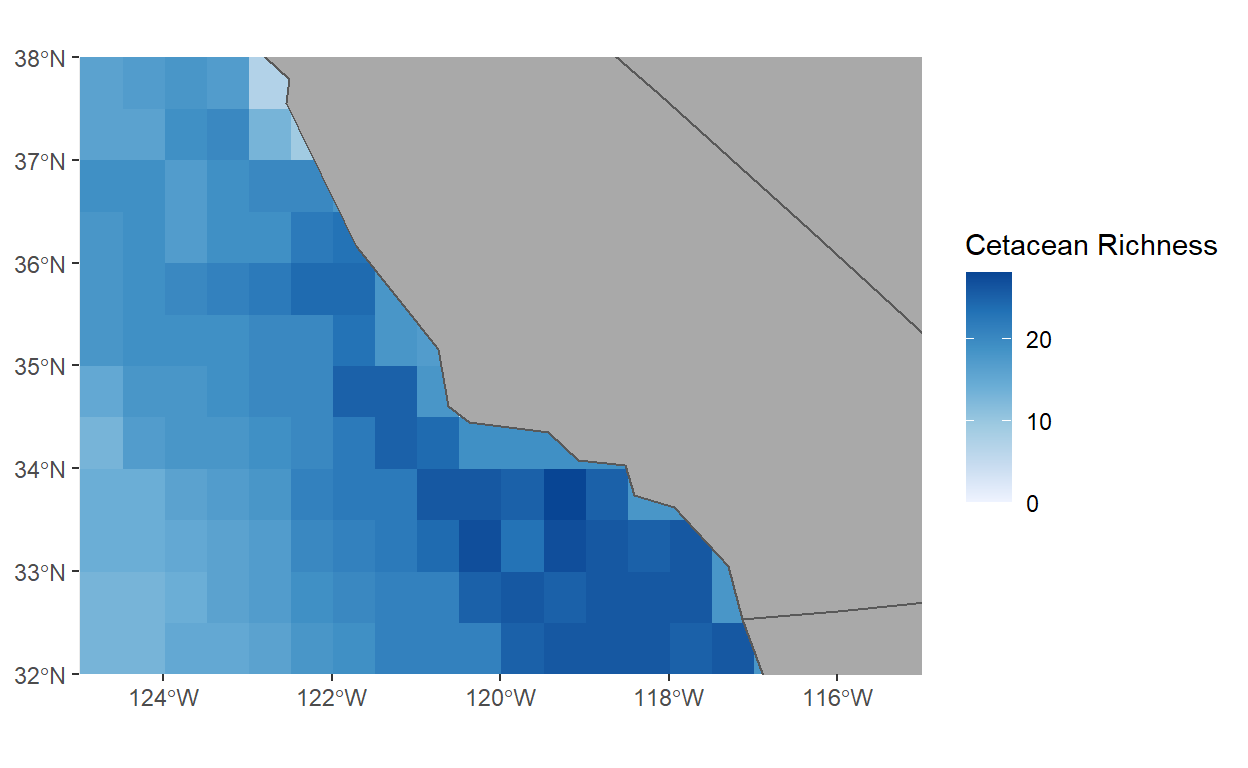
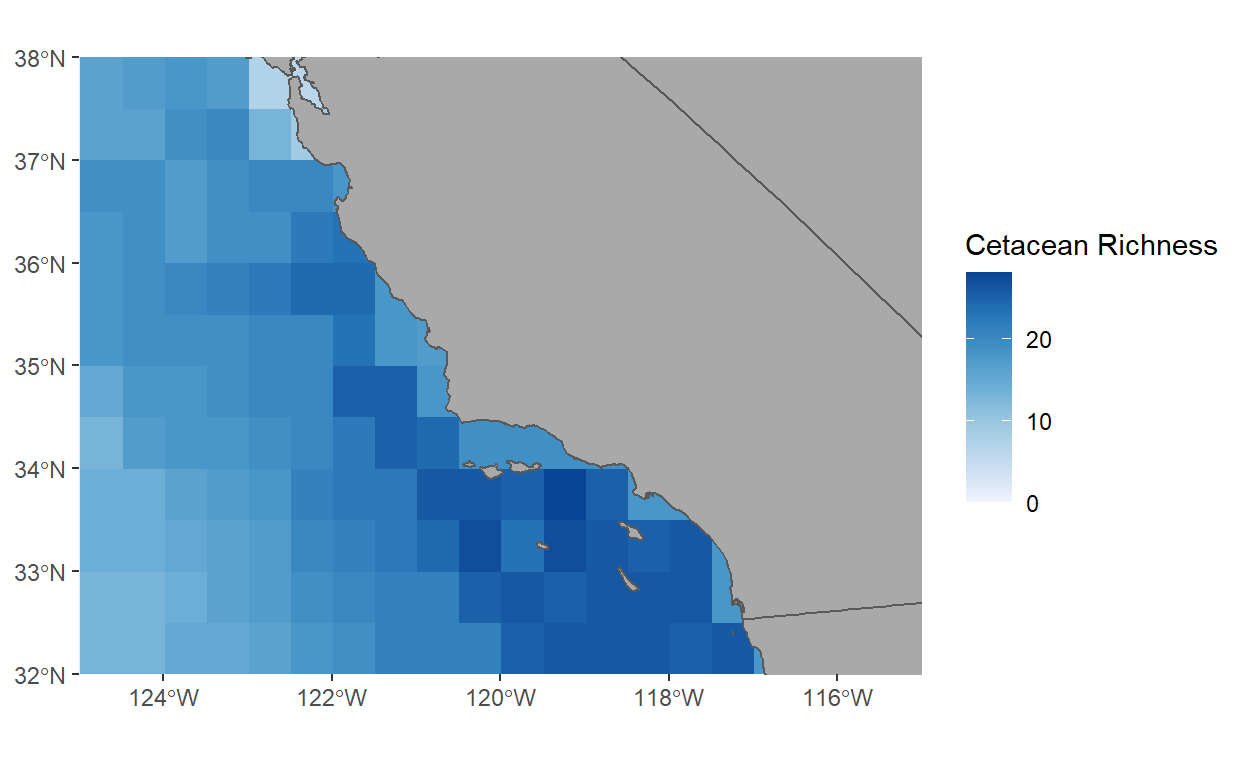
changed map

diff --git a/_posts/2021-03-14-cetacean/cetacean.html b/_posts/2021-03-14-cetacean/cetacean.html
@@ -116,7 +116,7 @@ code span.wa { color: #5e5e5e; font-style: italic; } /* Warning */
   <!--/radix_placeholder_rmarkdown_metadata-->
   
   <script type="text/json" id="radix-resource-manifest">
-  {"type":"character","attributes":{},"value":["cetacean_files/anchor-4.2.2/anchor.min.js","cetacean_files/bowser-1.9.3/bowser.min.js","cetacean_files/distill-2.2.21/template.v2.js","cetacean_files/figure-html5/unnamed-chunk-3-1.png","cetacean_files/figure-html5/unnamed-chunk-5-1.png","cetacean_files/header-attrs-2.6.6/header-attrs.js","cetacean_files/jquery-1.11.3/jquery.min.js","cetacean_files/popper-2.6.0/popper.min.js","cetacean_files/tippy-6.2.7/tippy-bundle.umd.min.js","cetacean_files/tippy-6.2.7/tippy-light-border.css","cetacean_files/tippy-6.2.7/tippy.css","cetacean_files/tippy-6.2.7/tippy.umd.min.js","cetacean_files/webcomponents-2.0.0/webcomponents.js","data/ca_cetaceans/Balaenoptera_acutorostrata.tif","data/ca_cetaceans/Balaenoptera_borealis.tif","data/ca_cetaceans/Balaenoptera_brydei.tif","data/ca_cetaceans/Balaenoptera_edeni.tif","data/ca_cetaceans/Balaenoptera_musculus.tif","data/ca_cetaceans/Balaenoptera_physalus.tif","data/ca_cetaceans/Berardius_bairdii.tif","data/ca_cetaceans/Delphinus_capensis.tif","data/ca_cetaceans/Delphinus_delphis.tif","data/ca_cetaceans/Eschrichtius_robustus.tif","data/ca_cetaceans/Eubalaena_japonica.tif","data/ca_cetaceans/Globicephala_macrorhynchus.tif","data/ca_cetaceans/Grampus_griseus.tif","data/ca_cetaceans/Indopacetus_pacificus.tif","data/ca_cetaceans/Kogia_breviceps.tif","data/ca_cetaceans/Kogia_sima.tif","data/ca_cetaceans/Lagenodelphis_hosei.tif","data/ca_cetaceans/Lagenorhynchus_obliquidens.tif","data/ca_cetaceans/Lissodelphis_borealis.tif","data/ca_cetaceans/Megaptera_novaeangliae.tif","data/ca_cetaceans/Mesoplodon_carlhubbsi.tif","data/ca_cetaceans/Mesoplodon_densirostris.tif","data/ca_cetaceans/Mesoplodon_ginkgodens.tif","data/ca_cetaceans/Mesoplodon_perrini.tif","data/ca_cetaceans/Mesoplodon_stejnegeri.tif","data/ca_cetaceans/Orcinus_orca.tif","data/ca_cetaceans/Phocoena_phocoena.tif","data/ca_cetaceans/Phocoenoides_dalli.tif","data/ca_cetaceans/Physeter_macrocephalus.tif","data/ca_cetaceans/Pseudorca_crassidens.tif","data/ca_cetaceans/Stenella_attenuata.tif","data/ca_cetaceans/Stenella_coeruleoalba.tif","data/ca_cetaceans/Steno_bredanensis.tif","data/ca_cetaceans/Tursiops_truncatus.tif","data/ca_cetaceans/Ziphius_cavirostris.tif","data/ca_counties/CA_Counties_TIGER2016.cpg","data/ca_counties/CA_Counties_TIGER2016.dbf","data/ca_counties/CA_Counties_TIGER2016.prj","data/ca_counties/CA_Counties_TIGER2016.sbn","data/ca_counties/CA_Counties_TIGER2016.sbx","data/ca_counties/CA_Counties_TIGER2016.shp","data/ca_counties/CA_Counties_TIGER2016.shp.xml","data/ca_counties/CA_Counties_TIGER2016.shx","data/oil_spill/Oil_Spill_Incident_Tracking_%5Bds394%5D.cpg","data/oil_spill/Oil_Spill_Incident_Tracking_%5Bds394%5D.dbf","data/oil_spill/Oil_Spill_Incident_Tracking_%5Bds394%5D.prj","data/oil_spill/Oil_Spill_Incident_Tracking_%5Bds394%5D.shp","data/oil_spill/Oil_Spill_Incident_Tracking_%5Bds394%5D.shx","data/oil_spill/Oil_Spill_Incident_Tracking_%5Bds394%5D.xml","data/The Project Gutenberg EBook of Treasure Island.pdf","src/a3_task1_smith_quin.html","src/a3_task1_smith_quin.Rmd","src/a3_task2_smith_quin.html","src/a3_task2_smith_quin.Rmd","src/a3_task3_smith_quin.html","src/a3_task3_smith_quin.Rmd"]}
+  {"type":"character","attributes":{},"value":["cetacean_files/anchor-4.2.2/anchor.min.js","cetacean_files/bowser-1.9.3/bowser.min.js","cetacean_files/distill-2.2.21/template.v2.js","cetacean_files/figure-html5/unnamed-chunk-3-1.png","cetacean_files/figure-html5/unnamed-chunk-5-1.png","cetacean_files/header-attrs-2.6.6/header-attrs.js","cetacean_files/jquery-1.11.3/jquery.min.js","cetacean_files/popper-2.6.0/popper.min.js","cetacean_files/tippy-6.2.7/tippy-bundle.umd.min.js","cetacean_files/tippy-6.2.7/tippy-light-border.css","cetacean_files/tippy-6.2.7/tippy.css","cetacean_files/tippy-6.2.7/tippy.umd.min.js","cetacean_files/webcomponents-2.0.0/webcomponents.js","data/ca_cetaceans/Balaenoptera_acutorostrata.tif","data/ca_cetaceans/Balaenoptera_borealis.tif","data/ca_cetaceans/Balaenoptera_brydei.tif","data/ca_cetaceans/Balaenoptera_edeni.tif","data/ca_cetaceans/Balaenoptera_musculus.tif","data/ca_cetaceans/Balaenoptera_physalus.tif","data/ca_cetaceans/Berardius_bairdii.tif","data/ca_cetaceans/Delphinus_capensis.tif","data/ca_cetaceans/Delphinus_delphis.tif","data/ca_cetaceans/Eschrichtius_robustus.tif","data/ca_cetaceans/Eubalaena_japonica.tif","data/ca_cetaceans/Globicephala_macrorhynchus.tif","data/ca_cetaceans/Grampus_griseus.tif","data/ca_cetaceans/Indopacetus_pacificus.tif","data/ca_cetaceans/Kogia_breviceps.tif","data/ca_cetaceans/Kogia_sima.tif","data/ca_cetaceans/Lagenodelphis_hosei.tif","data/ca_cetaceans/Lagenorhynchus_obliquidens.tif","data/ca_cetaceans/Lissodelphis_borealis.tif","data/ca_cetaceans/Megaptera_novaeangliae.tif","data/ca_cetaceans/Mesoplodon_carlhubbsi.tif","data/ca_cetaceans/Mesoplodon_densirostris.tif","data/ca_cetaceans/Mesoplodon_ginkgodens.tif","data/ca_cetaceans/Mesoplodon_perrini.tif","data/ca_cetaceans/Mesoplodon_stejnegeri.tif","data/ca_cetaceans/Orcinus_orca.tif","data/ca_cetaceans/Phocoena_phocoena.tif","data/ca_cetaceans/Phocoenoides_dalli.tif","data/ca_cetaceans/Physeter_macrocephalus.tif","data/ca_cetaceans/Pseudorca_crassidens.tif","data/ca_cetaceans/Stenella_attenuata.tif","data/ca_cetaceans/Stenella_coeruleoalba.tif","data/ca_cetaceans/Steno_bredanensis.tif","data/ca_cetaceans/Tursiops_truncatus.tif","data/ca_cetaceans/Ziphius_cavirostris.tif","data/ca_counties/CA_Counties_TIGER2016.cpg","data/ca_counties/CA_Counties_TIGER2016.dbf","data/ca_counties/CA_Counties_TIGER2016.prj","data/ca_counties/CA_Counties_TIGER2016.sbn","data/ca_counties/CA_Counties_TIGER2016.sbx","data/ca_counties/CA_Counties_TIGER2016.shp","data/ca_counties/CA_Counties_TIGER2016.shp.xml","data/ca_counties/CA_Counties_TIGER2016.shx","data/oil_spill/Oil_Spill_Incident_Tracking_%5Bds394%5D.cpg","data/oil_spill/Oil_Spill_Incident_Tracking_%5Bds394%5D.dbf","data/oil_spill/Oil_Spill_Incident_Tracking_%5Bds394%5D.prj","data/oil_spill/Oil_Spill_Incident_Tracking_%5Bds394%5D.shp","data/oil_spill/Oil_Spill_Incident_Tracking_%5Bds394%5D.shx","data/oil_spill/Oil_Spill_Incident_Tracking_%5Bds394%5D.xml","data/The Project Gutenberg EBook of Treasure Island.pdf"]}
   </script>
   <!--radix_placeholder_navigation_in_header-->
   <!--/radix_placeholder_navigation_in_header-->
@@ -1547,8 +1547,8 @@ hide
 </summary>
 <div class="sourceCode">
 <pre class="sourceCode r"><code class="sourceCode r"><span class='co'>#download shapefiles</span>
-<span class='va'>coast</span> <span class='op'>&lt;-</span> <span class='fu'><a href='https://rdrr.io/pkg/rnaturalearth/man/ne_download.html'>ne_download</a></span><span class='op'>(</span>scale <span class='op'>=</span> <span class='fl'>110</span>, type <span class='op'>=</span> <span class='st'>'land'</span>, category <span class='op'>=</span> <span class='st'>'physical'</span>, returnclass <span class='op'>=</span> <span class='st'>"sf"</span><span class='op'>)</span>
-<span class='va'>states</span> <span class='op'>&lt;-</span> <span class='fu'><a href='https://rdrr.io/pkg/rnaturalearth/man/ne_download.html'>ne_download</a></span><span class='op'>(</span>scale <span class='op'>=</span> <span class='fl'>110</span>, type <span class='op'>=</span> <span class='st'>'states'</span>, category <span class='op'>=</span> <span class='st'>'cultural'</span>, returnclass <span class='op'>=</span> <span class='st'>"sf"</span><span class='op'>)</span>
+<span class='va'>coast</span> <span class='op'>&lt;-</span> <span class='fu'><a href='https://rdrr.io/pkg/rnaturalearth/man/ne_download.html'>ne_download</a></span><span class='op'>(</span>scale <span class='op'>=</span> <span class='st'>"large"</span>, type <span class='op'>=</span> <span class='st'>'land'</span>, category <span class='op'>=</span> <span class='st'>'physical'</span>, returnclass <span class='op'>=</span> <span class='st'>"sf"</span><span class='op'>)</span>
+<span class='va'>states</span> <span class='op'>&lt;-</span> <span class='fu'><a href='https://rdrr.io/pkg/rnaturalearth/man/ne_download.html'>ne_download</a></span><span class='op'>(</span>scale <span class='op'>=</span> <span class='st'>"large"</span>, type <span class='op'>=</span> <span class='st'>'states'</span>, category <span class='op'>=</span> <span class='st'>'cultural'</span>, returnclass <span class='op'>=</span> <span class='st'>"sf"</span><span class='op'>)</span>
 </code></pre>
 </div>
 </details>

diff --git a/docs/posts/2021-03-14-cetacean/index.html b/docs/posts/2021-03-14-cetacean/index.html
@@ -117,7 +117,7 @@ code span.wa { color: #5e5e5e; font-style: italic; } /* Warning */
 <!--/radix_placeholder_rmarkdown_metadata-->
   
   <script type="text/json" id="radix-resource-manifest">
-  {"type":"character","attributes":{},"value":["cetacean_files/anchor-4.2.2/anchor.min.js","cetacean_files/bowser-1.9.3/bowser.min.js","cetacean_files/distill-2.2.21/template.v2.js","cetacean_files/figure-html5/unnamed-chunk-3-1.png","cetacean_files/figure-html5/unnamed-chunk-5-1.png","cetacean_files/header-attrs-2.6.6/header-attrs.js","cetacean_files/jquery-1.11.3/jquery.min.js","cetacean_files/popper-2.6.0/popper.min.js","cetacean_files/tippy-6.2.7/tippy-bundle.umd.min.js","cetacean_files/tippy-6.2.7/tippy-light-border.css","cetacean_files/tippy-6.2.7/tippy.css","cetacean_files/tippy-6.2.7/tippy.umd.min.js","cetacean_files/webcomponents-2.0.0/webcomponents.js","data/ca_cetaceans/Balaenoptera_acutorostrata.tif","data/ca_cetaceans/Balaenoptera_borealis.tif","data/ca_cetaceans/Balaenoptera_brydei.tif","data/ca_cetaceans/Balaenoptera_edeni.tif","data/ca_cetaceans/Balaenoptera_musculus.tif","data/ca_cetaceans/Balaenoptera_physalus.tif","data/ca_cetaceans/Berardius_bairdii.tif","data/ca_cetaceans/Delphinus_capensis.tif","data/ca_cetaceans/Delphinus_delphis.tif","data/ca_cetaceans/Eschrichtius_robustus.tif","data/ca_cetaceans/Eubalaena_japonica.tif","data/ca_cetaceans/Globicephala_macrorhynchus.tif","data/ca_cetaceans/Grampus_griseus.tif","data/ca_cetaceans/Indopacetus_pacificus.tif","data/ca_cetaceans/Kogia_breviceps.tif","data/ca_cetaceans/Kogia_sima.tif","data/ca_cetaceans/Lagenodelphis_hosei.tif","data/ca_cetaceans/Lagenorhynchus_obliquidens.tif","data/ca_cetaceans/Lissodelphis_borealis.tif","data/ca_cetaceans/Megaptera_novaeangliae.tif","data/ca_cetaceans/Mesoplodon_carlhubbsi.tif","data/ca_cetaceans/Mesoplodon_densirostris.tif","data/ca_cetaceans/Mesoplodon_ginkgodens.tif","data/ca_cetaceans/Mesoplodon_perrini.tif","data/ca_cetaceans/Mesoplodon_stejnegeri.tif","data/ca_cetaceans/Orcinus_orca.tif","data/ca_cetaceans/Phocoena_phocoena.tif","data/ca_cetaceans/Phocoenoides_dalli.tif","data/ca_cetaceans/Physeter_macrocephalus.tif","data/ca_cetaceans/Pseudorca_crassidens.tif","data/ca_cetaceans/Stenella_attenuata.tif","data/ca_cetaceans/Stenella_coeruleoalba.tif","data/ca_cetaceans/Steno_bredanensis.tif","data/ca_cetaceans/Tursiops_truncatus.tif","data/ca_cetaceans/Ziphius_cavirostris.tif","data/ca_counties/CA_Counties_TIGER2016.cpg","data/ca_counties/CA_Counties_TIGER2016.dbf","data/ca_counties/CA_Counties_TIGER2016.prj","data/ca_counties/CA_Counties_TIGER2016.sbn","data/ca_counties/CA_Counties_TIGER2016.sbx","data/ca_counties/CA_Counties_TIGER2016.shp","data/ca_counties/CA_Counties_TIGER2016.shp.xml","data/ca_counties/CA_Counties_TIGER2016.shx","data/oil_spill/Oil_Spill_Incident_Tracking_%5Bds394%5D.cpg","data/oil_spill/Oil_Spill_Incident_Tracking_%5Bds394%5D.dbf","data/oil_spill/Oil_Spill_Incident_Tracking_%5Bds394%5D.prj","data/oil_spill/Oil_Spill_Incident_Tracking_%5Bds394%5D.shp","data/oil_spill/Oil_Spill_Incident_Tracking_%5Bds394%5D.shx","data/oil_spill/Oil_Spill_Incident_Tracking_%5Bds394%5D.xml","data/The Project Gutenberg EBook of Treasure Island.pdf","src/a3_task1_smith_quin.html","src/a3_task1_smith_quin.Rmd","src/a3_task2_smith_quin.html","src/a3_task2_smith_quin.Rmd","src/a3_task3_smith_quin.html","src/a3_task3_smith_quin.Rmd"]}
+  {"type":"character","attributes":{},"value":["cetacean_files/anchor-4.2.2/anchor.min.js","cetacean_files/bowser-1.9.3/bowser.min.js","cetacean_files/distill-2.2.21/template.v2.js","cetacean_files/figure-html5/unnamed-chunk-3-1.png","cetacean_files/figure-html5/unnamed-chunk-5-1.png","cetacean_files/header-attrs-2.6.6/header-attrs.js","cetacean_files/jquery-1.11.3/jquery.min.js","cetacean_files/popper-2.6.0/popper.min.js","cetacean_files/tippy-6.2.7/tippy-bundle.umd.min.js","cetacean_files/tippy-6.2.7/tippy-light-border.css","cetacean_files/tippy-6.2.7/tippy.css","cetacean_files/tippy-6.2.7/tippy.umd.min.js","cetacean_files/webcomponents-2.0.0/webcomponents.js","data/ca_cetaceans/Balaenoptera_acutorostrata.tif","data/ca_cetaceans/Balaenoptera_borealis.tif","data/ca_cetaceans/Balaenoptera_brydei.tif","data/ca_cetaceans/Balaenoptera_edeni.tif","data/ca_cetaceans/Balaenoptera_musculus.tif","data/ca_cetaceans/Balaenoptera_physalus.tif","data/ca_cetaceans/Berardius_bairdii.tif","data/ca_cetaceans/Delphinus_capensis.tif","data/ca_cetaceans/Delphinus_delphis.tif","data/ca_cetaceans/Eschrichtius_robustus.tif","data/ca_cetaceans/Eubalaena_japonica.tif","data/ca_cetaceans/Globicephala_macrorhynchus.tif","data/ca_cetaceans/Grampus_griseus.tif","data/ca_cetaceans/Indopacetus_pacificus.tif","data/ca_cetaceans/Kogia_breviceps.tif","data/ca_cetaceans/Kogia_sima.tif","data/ca_cetaceans/Lagenodelphis_hosei.tif","data/ca_cetaceans/Lagenorhynchus_obliquidens.tif","data/ca_cetaceans/Lissodelphis_borealis.tif","data/ca_cetaceans/Megaptera_novaeangliae.tif","data/ca_cetaceans/Mesoplodon_carlhubbsi.tif","data/ca_cetaceans/Mesoplodon_densirostris.tif","data/ca_cetaceans/Mesoplodon_ginkgodens.tif","data/ca_cetaceans/Mesoplodon_perrini.tif","data/ca_cetaceans/Mesoplodon_stejnegeri.tif","data/ca_cetaceans/Orcinus_orca.tif","data/ca_cetaceans/Phocoena_phocoena.tif","data/ca_cetaceans/Phocoenoides_dalli.tif","data/ca_cetaceans/Physeter_macrocephalus.tif","data/ca_cetaceans/Pseudorca_crassidens.tif","data/ca_cetaceans/Stenella_attenuata.tif","data/ca_cetaceans/Stenella_coeruleoalba.tif","data/ca_cetaceans/Steno_bredanensis.tif","data/ca_cetaceans/Tursiops_truncatus.tif","data/ca_cetaceans/Ziphius_cavirostris.tif","data/ca_counties/CA_Counties_TIGER2016.cpg","data/ca_counties/CA_Counties_TIGER2016.dbf","data/ca_counties/CA_Counties_TIGER2016.prj","data/ca_counties/CA_Counties_TIGER2016.sbn","data/ca_counties/CA_Counties_TIGER2016.sbx","data/ca_counties/CA_Counties_TIGER2016.shp","data/ca_counties/CA_Counties_TIGER2016.shp.xml","data/ca_counties/CA_Counties_TIGER2016.shx","data/oil_spill/Oil_Spill_Incident_Tracking_%5Bds394%5D.cpg","data/oil_spill/Oil_Spill_Incident_Tracking_%5Bds394%5D.dbf","data/oil_spill/Oil_Spill_Incident_Tracking_%5Bds394%5D.prj","data/oil_spill/Oil_Spill_Incident_Tracking_%5Bds394%5D.shp","data/oil_spill/Oil_Spill_Incident_Tracking_%5Bds394%5D.shx","data/oil_spill/Oil_Spill_Incident_Tracking_%5Bds394%5D.xml","data/The Project Gutenberg EBook of Treasure Island.pdf"]}
   </script>
   <!--radix_placeholder_navigation_in_header-->
 <meta name="distill:offset" content="../.."/>
@@ -2479,8 +2479,8 @@ hide
 </summary>
 <div class="sourceCode">
 <pre class="sourceCode r"><code class="sourceCode r"><span class='co'>#download shapefiles</span>
-<span class='va'>coast</span> <span class='op'>&lt;-</span> <span class='fu'><a href='https://rdrr.io/pkg/rnaturalearth/man/ne_download.html'>ne_download</a></span><span class='op'>(</span>scale <span class='op'>=</span> <span class='fl'>110</span>, type <span class='op'>=</span> <span class='st'>'land'</span>, category <span class='op'>=</span> <span class='st'>'physical'</span>, returnclass <span class='op'>=</span> <span class='st'>"sf"</span><span class='op'>)</span>
-<span class='va'>states</span> <span class='op'>&lt;-</span> <span class='fu'><a href='https://rdrr.io/pkg/rnaturalearth/man/ne_download.html'>ne_download</a></span><span class='op'>(</span>scale <span class='op'>=</span> <span class='fl'>110</span>, type <span class='op'>=</span> <span class='st'>'states'</span>, category <span class='op'>=</span> <span class='st'>'cultural'</span>, returnclass <span class='op'>=</span> <span class='st'>"sf"</span><span class='op'>)</span>
+<span class='va'>coast</span> <span class='op'>&lt;-</span> <span class='fu'><a href='https://rdrr.io/pkg/rnaturalearth/man/ne_download.html'>ne_download</a></span><span class='op'>(</span>scale <span class='op'>=</span> <span class='st'>"large"</span>, type <span class='op'>=</span> <span class='st'>'land'</span>, category <span class='op'>=</span> <span class='st'>'physical'</span>, returnclass <span class='op'>=</span> <span class='st'>"sf"</span><span class='op'>)</span>
+<span class='va'>states</span> <span class='op'>&lt;-</span> <span class='fu'><a href='https://rdrr.io/pkg/rnaturalearth/man/ne_download.html'>ne_download</a></span><span class='op'>(</span>scale <span class='op'>=</span> <span class='st'>"large"</span>, type <span class='op'>=</span> <span class='st'>'states'</span>, category <span class='op'>=</span> <span class='st'>'cultural'</span>, returnclass <span class='op'>=</span> <span class='st'>"sf"</span><span class='op'>)</span>
 </code></pre>
 </div>
 </details>
